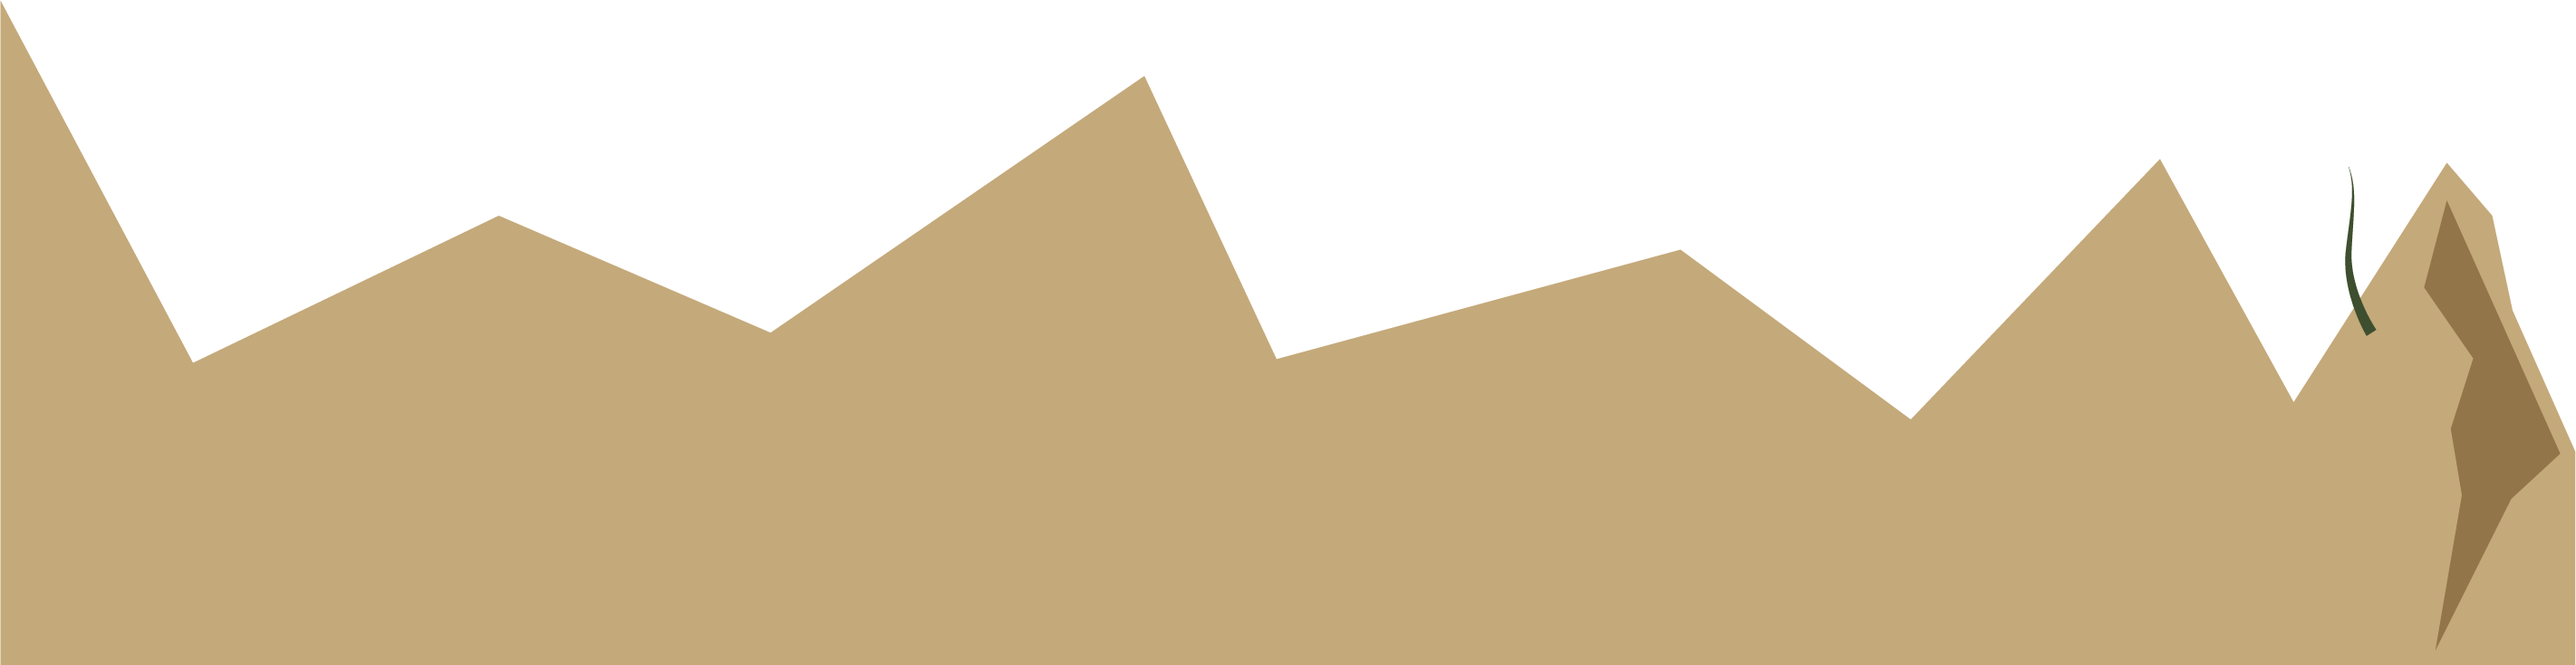
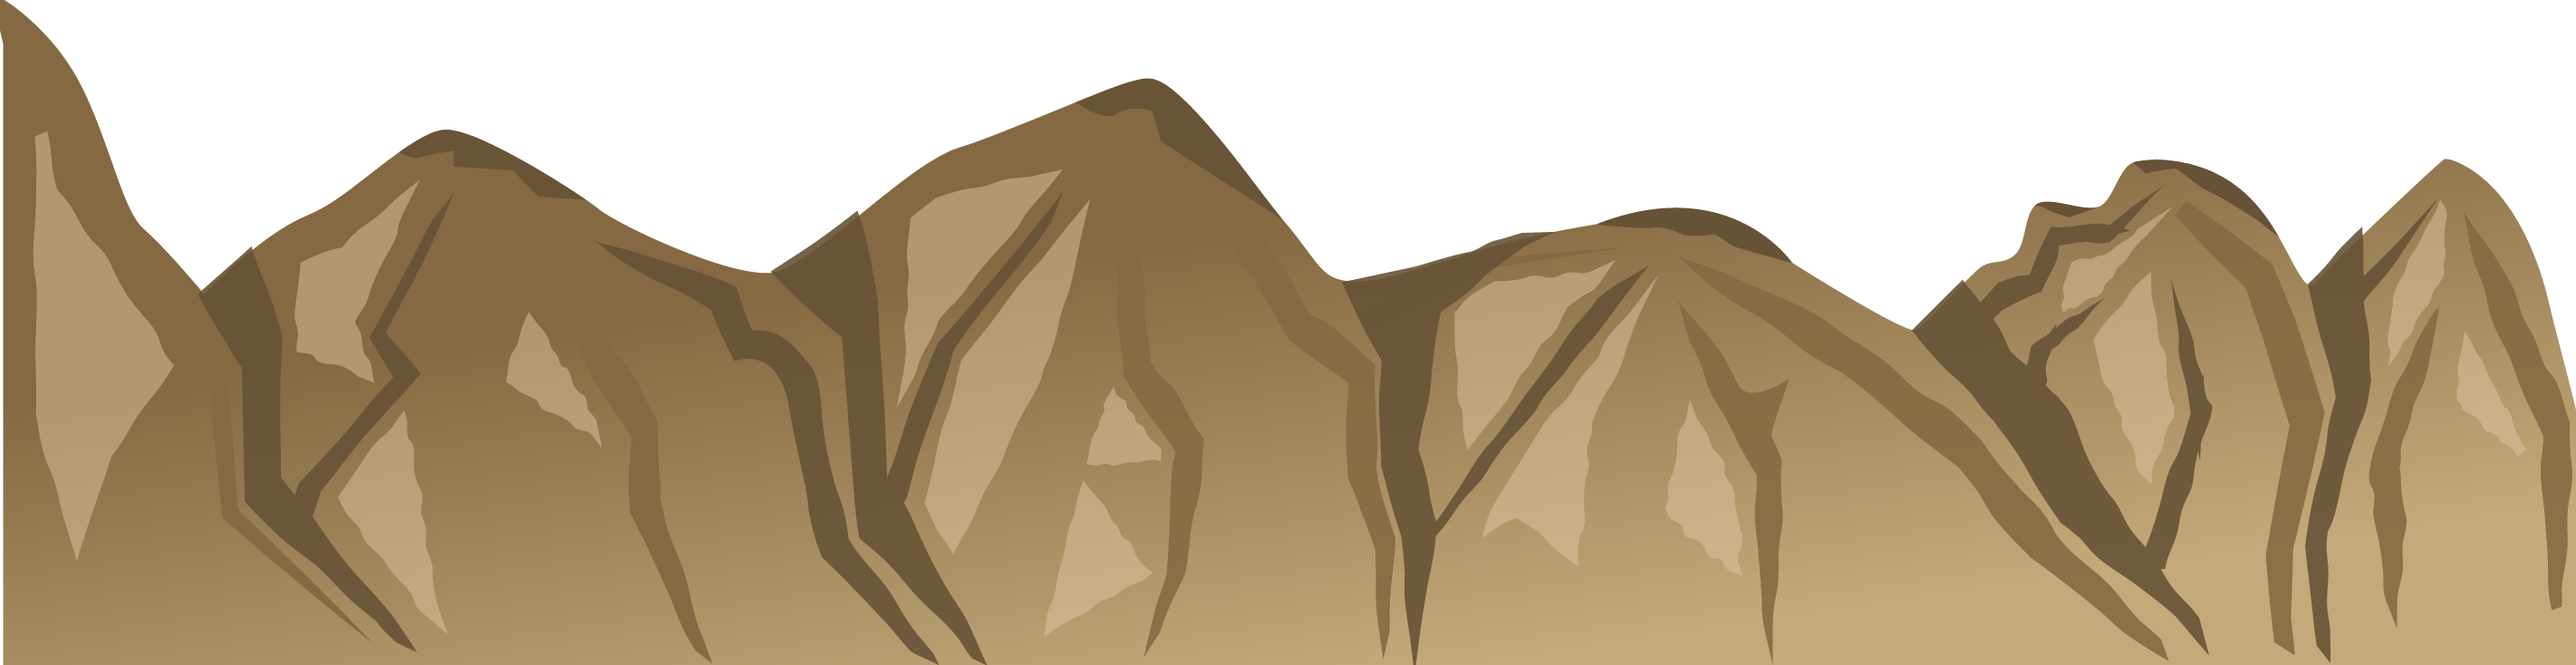
battlefield artwork

diff --git a/fe-warsquares/src/index.css b/fe-warsquares/src/index.css
@@ -6,13 +6,13 @@ body {
 }
 
 #battlefield {
-  background: url("./images/background.png");
+  background: url("./images/background-02.png");
   background-size: 100%;
   position: fixed;
   top: 0;
   left: 0;
   width: 100%;
-  height: 100vh
+  height: 100vh;
 }
 
 .square {
@@ -47,7 +47,12 @@ body {
   transform: rotateX(0deg) rotateY(0deg) rotateZ(135deg);
   animation: floating 3s ease infinite;
   z-index: 20;
+}
 
+@keyframes floating {
+  0% { margin: 40px 0 0 40px; }
+  50% { margin: 100px 0 0 100px;}
+  100% { margin: 40px 0 0 40px; }
 }
 
 .map-container {
@@ -893,11 +898,11 @@ a {
   grid-row-start: 3;
   grid-row-end: 4;
   z-index: 1;
-  margin: -6.5% 0 0 0;
+  margin: -1.5% 0 0 0;
   font-size: 1.3em;
   font-family: 'Libre Baskerville', serif;
   font-weight: bold;
-  padding: 2% 0 0 0;
+  padding: 1% 0 0 0;
   box-shadow: 0px 3px 2px #000;
   background-color: #CCCCCC;
   color: #000;
@@ -906,7 +911,49 @@ a {
 }
 
 .party-link:hover {
-  margin: -1.8% 0 0 0;
+  margin: -.85% 0 0 0;
+}
+
+/* BATTLEFIELD */
+.bf-party-link {
+  width: 8%;
+  height: 100px;
+  margin: -3% 0 0 5%;
+  font-size: 1.3em;
+  font-family: 'Libre Baskerville', serif;
+  font-weight: bold;
+  padding: 3% 0 0 0;
+  box-shadow: 0px 3px 2px #000;
+  background-color: #CCCCCC;
+  color: #000;
+  transition: margin .5s ease;
+  border-radius: 10px;
+}
+
+.bf-party-link:hover {
+  margin: -2% 0 0 5%;
+}
+
+.move-counter {
+  position: fixed;
+  background: white;
+  top: 2%;
+  width: 8%;
+  right: 3%;
+  box-shadow: 3px 3px 3px #000;
+  text-align: center;
+}
+
+.move-counter p {
+  padding: 1%;
+  margin: 0;
+  background-color: #330000;
+  color: white;
+}
+
+.move-counter h2 {
+  font-size: 2em;
+  margin: 0;
 }
 
 /* BATTLE */

diff --git a/fe-warsquares/src/components/Battlefield.js b/fe-warsquares/src/components/Battlefield.js
@@ -29,15 +29,20 @@ class Battlefield extends React.Component {
       .then(this.props.resetMap)
   }
 
+  renderButton = () => {
+    return <button className="bf-party-link" onClick={() => { this.props.history.push('/party') }}>Party</button>
+  }
+
   render() {
     return (
       <div id="battlefield">
         { this.props.questing ?
           <div>
-            <div>Battlefield</div>
-            <Link to="/party">Party</Link>
-
-            <h2>{this.props.map.info.moves}</h2>
+            {this.renderButton()}
+            <div className="move-counter">
+              <p>Moves Taken:</p>
+              <h2>{this.props.map.info.moves}</h2>
+            </div>
           { this.props.encounter && <Encounter />}
           <GridMap map={this.props.map} />
           {this.props.map.info.complete ?

diff --git a/fe-warsquares/src/components/MapItem.js b/fe-warsquares/src/components/MapItem.js
@@ -25,11 +25,17 @@ class MapItem extends React.Component {
     }
   }
 
+  enterBattle = (e) => {
+    if (e.target.className !== "delete-button") {
+      this.props.enterBattle(this.props.map.id, this.props.info.current_square)
+    }
+  }
+
   render() {
 
     return (
       <div>
-        <div onClick={() => this.props.enterBattle(this.props.map.id, this.props.info.current_square)}>
+        <div onClick={this.enterBattle}>
           <div className="map-name">
             {this.props.map.name}
             <button className="delete-button" onClick={this.deleteMap}>X</button>

diff --git a/fe-warsquares/src/components/Store.js b/fe-warsquares/src/components/Store.js
@@ -16,7 +16,7 @@ class Store extends React.Component {
   }
 
   renderButton = () => {
-    return <button className="party-link" onClick={() => { this.props.history.push('/store') }}>Store</button>
+    return <button className="party-link" onClick={() => { this.props.history.push('/party') }}>Party</button>
   }
 
   render() {
